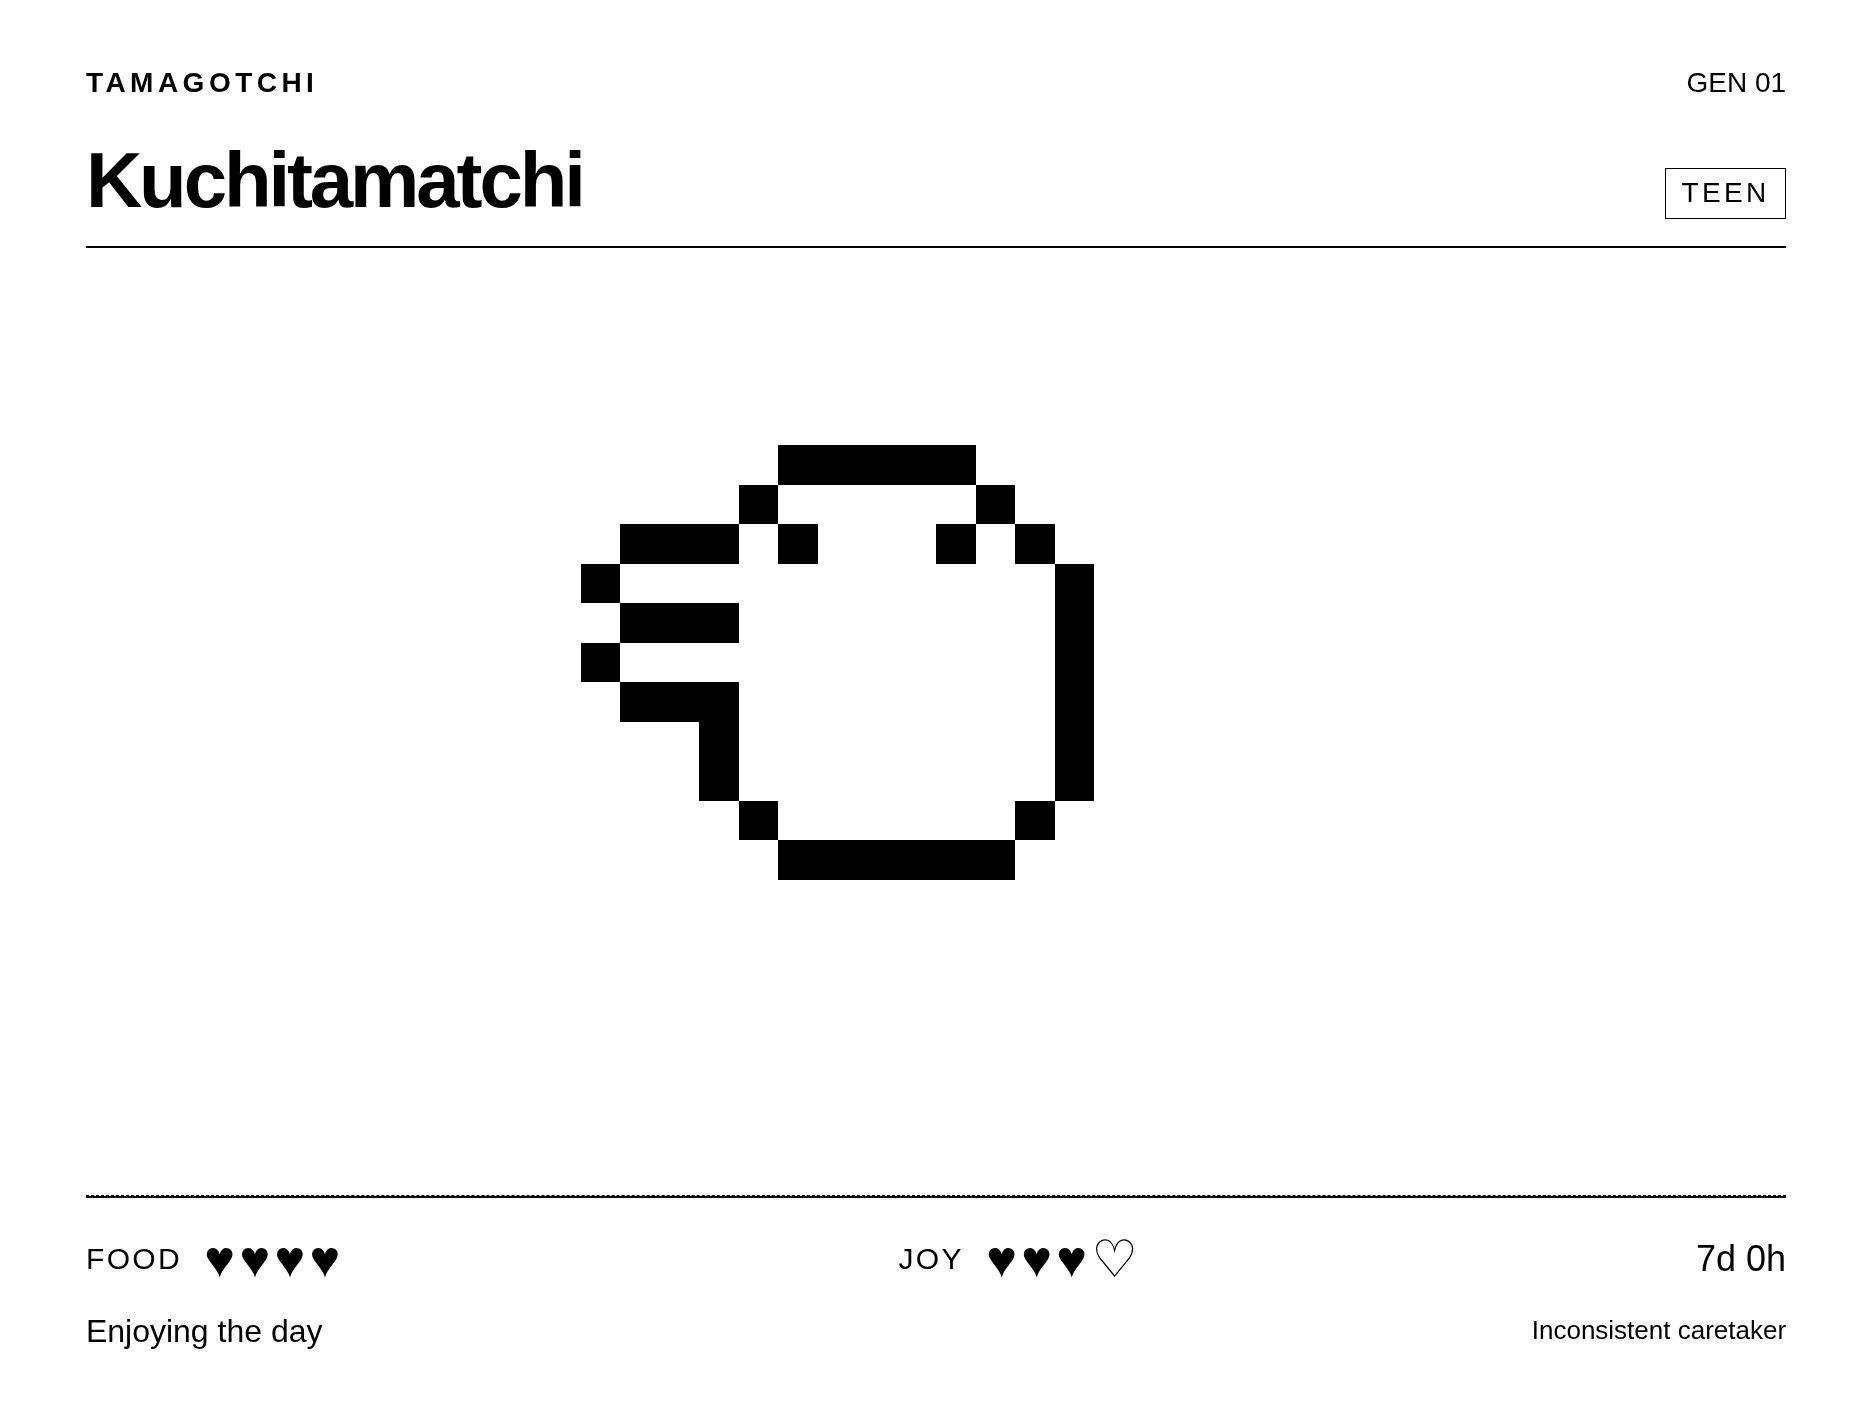
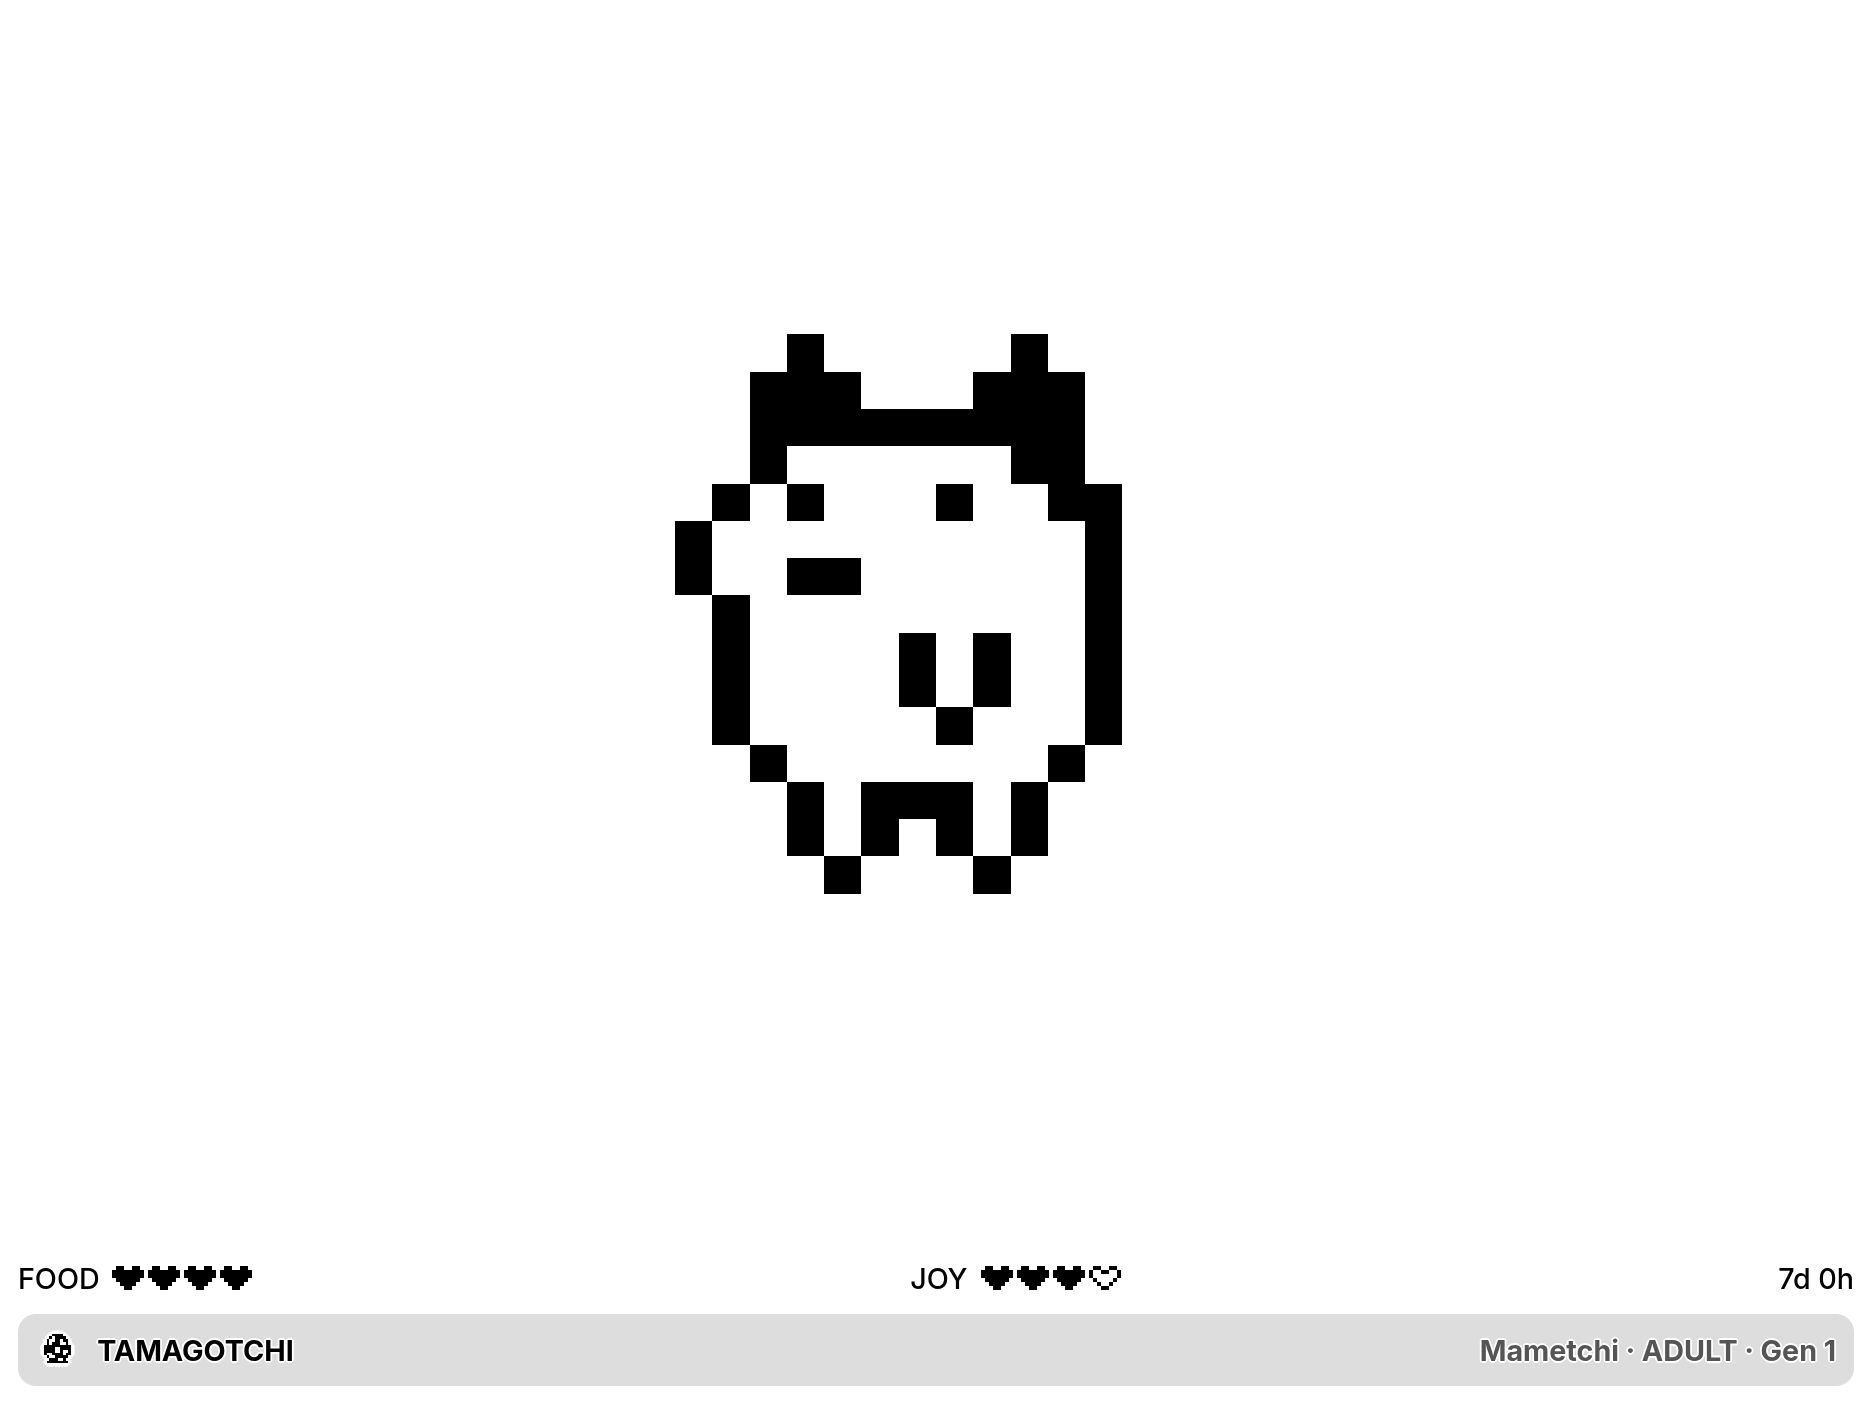
refactor: simplify layouts with native TRMNL components

diff --git a/TRMNL/src/transform.js b/TRMNL/src/transform.js
@@ -300,11 +300,22 @@ function displayPet(s, now, warning = '') {
   const status = dead ? 'Resting among the stars' : !s.character ? 'A little life is on its way' :
     s.sleeping ? 'Sound asleep' : s.sick ? 'Under the weather' :
     s.activity_until >= s.cursor ? s.activity : s.hunger === 0 ? 'Ready for a meal' : s.happiness === 0 ? 'A little bored' : 'Enjoying the day';
+  // Pixel hearts avoid font-dependent Unicode rendering on OG and X.
+  const heartPath = value => Array.from({length: 4}, (_, i) => {
+    const x = i * 9;
+    const outline = `M${x+1} 1h2v1h2V1h2v1h1v2h-1v1h-1v1h-1v1h-2V6h-1V5h-1V4h-1V2h1z`;
+    const hollow = `M${x+1} 2h2v1h2V2h2v2h-1v1h-1v1h-2V5h-1V4h-1z`;
+    return outline + (i < Math.ceil(value / 4) ? '' : hollow);
+  }).join('');
+  const notice = catchup ? `Catching up · ${Math.ceil((now-s.cursor)/1440)} days remaining` : warning ||
+    (dead ? `New egg in ${Math.max(0, 60 - (s.cursor - s.dead_at))}m` : s.sick ? 'Under the weather' : '');
   return { name: dead ? 'Until next time' : names[s.character], character: id,
     stage: dead ? 'REBIRTH' : !s.character ? 'EGG' : s.character === 1 ? 'BABY' : s.character === 2 ? 'CHILD' : s.character < 5 ? 'TEEN' : 'ADULT',
-    generation: String(s.generation).padStart(2, '0'),
+    generation: String(s.generation),
     age: age < 60 ? `${age}m` : age < 1440 ? `${Math.floor(age/60)}h ${age%60}m` : `${Math.floor(age/1440)}d ${Math.floor(age%1440/60)}h`,
     food: hearts(s.hunger), joy: hearts(s.happiness), status,
+    food_path: heartPath(s.hunger), joy_path: heartPath(s.happiness),
+    logo_path: P1_SPRITES.egg[0], notice, notice_visibility: notice ? 'visible' : 'hidden',
     caretaker: P1_PROFILES[s.profile], frame, sprite_path: P1_SPRITES[id][frame],
     sprite_transform: `translate(${8 + offset} 4)`, sleep_path: s.sleeping ? P1_SPRITES.sleep : '',
     state_class: s.sleeping ? 'is-sleeping' : dead ? 'is-dead' : '',

diff --git a/scripts/preview-assets.py b/scripts/preview-assets.py
@@ -1,0 +1,24 @@
+"""Cache the official framework and fonts for the local preview, never the plugin ZIP."""
+import io
+from pathlib import Path
+import re
+import sys
+import urllib.request
+import zipfile
+
+root = Path(sys.argv[1])
+version = sys.argv[2]
+if not (root / "ready").exists():
+    print(f"Caching official TRMNL Framework {version} for local previews...")
+    url = f"https://github.com/usetrmnl/trmnl-framework/releases/download/v{version}/trmnl-framework--{version}.zip"
+    with zipfile.ZipFile(io.BytesIO(urllib.request.urlopen(url, timeout=30).read())) as archive:
+        css = archive.read("css/plugins.css")
+    (root / "css").mkdir(parents=True, exist_ok=True)
+    (root / "fonts").mkdir(exist_ok=True)
+    (root / "css/plugins.css").write_bytes(css)
+    # Fetch only referenced font files from the matching official release tag.
+    for name in sorted(set(re.findall(rb'/fonts/([^"\)]+)', css))):
+        name = name.decode()
+        url = f"https://raw.githubusercontent.com/usetrmnl/trmnl-framework/v{version}/public/fonts/{name}"
+        (root / "fonts" / name).write_bytes(urllib.request.urlopen(url, timeout=30).read())
+    (root / "ready").touch()

diff --git a/TRMNL/README.md b/TRMNL/README.md
@@ -16,7 +16,7 @@ An autonomous P1-style companion for your e-ink screen.
 |---|---|
 | ![TRMNL X](media/preview_trmnl_x.webp) | ![TRMNL X Portrait](media/preview_trmnl_x_portrait.webp) |
 
-These are local-shell previews of the actual templates. They do not prove hosted or physical-device rendering.
+These are local previews of the actual templates using the official TRMNL Framework 3.4.3 stylesheet and fonts. They do not prove hosted or physical-device rendering.
 
 ## Setup
 
@@ -38,9 +38,15 @@ The package layout is checked locally. Actual hosted import and execution remain
 
 1. Create a Private Plugin with **Static** strategy and Static Data `{}`. Set its refresh interval to **15 minutes**.
 2. In **Edit Markup → Serverless**, choose **Node** and paste all of [`src/transform.js`](src/transform.js). It includes the simulation and sprites and defines `run(input)`. No other JavaScript file or build step is needed.
-3. Paste [`shared.liquid`](src/shared.liquid) into **Shared** and the four corresponding templates into their layout tabs.
+3. Select **Framework 3.4.3**. Paste [`shared.liquid`](src/shared.liquid) into **Shared** and the four corresponding templates into their layout tabs.
 4. Sleep uses `trmnl.user.time_zone_iana`. If unavailable, add the optional string custom field `timezone` from [`settings.yml`](src/settings.yml), e.g. `Europe/Madrid`. Missing metadata later preserves the saved timezone; a new pet with none uses UTC with a reminder.
 5. Save, enable debug logs, and add the plugin to your playlist.
+
+## Layout
+
+The pet sits in open space, with food, joy, and age directly above the native title bar. Full and horizontal views include the stage and generation beside the character name. Narrow views keep the name and generation. The counter is written as “Gen 1” and increases after each automatic rebirth. Sleep has a visible Z; illness, rebirth countdowns, and configuration warnings appear only when relevant.
+
+Plugin markup uses native framework layout, flex, spacing, sizing, and typography utilities. The banner uses the unmodified `title_bar`, `image`, `title`, and `instance` classes as a sibling of `layout`; its background, borders, height, and fonts come from the framework. There are no custom stylesheets, inline styles, browser scripts, or external artwork requests. SVG artwork uses `shape-rendering="crispEdges"`; hearts are SVG paths so fonts do not change their appearance. Preview-only CSS positions and crops the device canvas and is never included in the plugin ZIP.
 
 ## Account-side acceptance checks
 
@@ -58,7 +64,7 @@ The repository follows the `TRMNL/src` and `TRMNL/media` conventions of the othe
 
 Run `node TRMNL/check.cjs` from the repository root. Node 20+ runs simulation and template checks; Python 3's standard library is used for the import-archive check. No package installation is required.
 
-`node scripts/preview.cjs` opens a dependency-free preview at **http://127.0.0.1:8766**. The local-only `.cjs` files are development tools; the deployable `src/` contains only `transform.js` as JavaScript.
+`node scripts/preview.cjs` starts a dependency-free preview at **http://127.0.0.1:8766**. Its first launch downloads the official framework release and fonts into the ignored `.cache/` directory; subsequent launches work offline. Python 3 is used for this one-time download. The preview provides the native screen and mashup wrappers, including X’s 1.8 physical-pixel scale. The local-only `.cjs` files are development tools; the deployable `src/` contains only `transform.js` as JavaScript.
 
 For TRMNLP, open this folder and run `trmnlp serve`. `.trmnlp.yml` disables the local transform and provides a fixed Mametchi artwork fixture; use the lifecycle preview or hosted plugin to exercise growth. The setting affects local previews only.
 

diff --git a/docs/VERIFICATION.md b/docs/VERIFICATION.md
@@ -13,9 +13,10 @@ Run `node TRMNL/check.cjs` from the repository root with Node 20+ and Python 3. 
 - `TRMNL/src` contains exactly one JavaScript file, `transform.js`, with embedded sprites and no runtime imports.
 - The actual generated ZIP has exactly seven root-level files. Its own `transform.js` is executed in isolation to initialize an egg and resume the same life as Babytchi.
 - Plugin settings use Static input, Node, a 15-minute interval and a description within the hosted 35-character limit.
+- Plugin templates are checked for native layout/title-bar structure, crisp SVG artwork, and absence of custom CSS, inline styles, or browser scripts.
 - Template checks cover 468 device/layout/character/condition combinations, plus escaping and sleeping/death indications.
 
-The original local browser inspection covered all twelve OG/X landscape/X portrait layout combinations, including the longest character name, with no measured layout overflow. Representative captures are in `TRMNL/media/`. These are local-shell renders, not hosted or physical-device screenshots.
+Local browser inspection uses the official Framework 3.4.3 release and its own fonts, device scale, view, and mashup wrappers. All twelve OG/X landscape/X portrait layout combinations were checked with the longest character name, with no measured content overflow. Sleep, illness, egg, and rebirth also received compact-slot visual checks. Representative captures are in `TRMNL/media/`. These are local framework renders; hosted and physical-device rendering remain unverified.
 
 ## Hosted validation remains pending
 

diff --git a/docs/SOURCES.md b/docs/SOURCES.md
@@ -35,3 +35,10 @@ The implementation follows your `TRMNL/src/` structure, `transform.js` naming an
 - [LaLiga](https://github.com/taichikuji/trmnl-laliga-plugin) and [TMB](https://github.com/taichikuji/trmnl-tmb-plugin): source/layout and preview organization.
 
 No changes were made to those reference repositories. Hosted TRMNL validation and public recipe publication remain pending.
+
+## Display framework
+
+- [TRMNL framework guidance](https://github.com/usetrmnl/trmnl-agent-skills): native components and utilities, platform-owned screen/view wrappers, and size-specific content.
+- [Structure](https://trmnl.com/framework/docs/3.4/structure): one `layout` per view, with the standard `title_bar` as its sibling. Screen, mashup, and view wrappers belong to the platform.
+- [Title bar](https://trmnl.com/framework/docs/3.4/title_bar), [size utilities](https://trmnl.com/framework/docs/3.4/size), and [screen](https://trmnl.com/framework/docs/3.4/screen): layout/title-bar siblings, native device dimensions, and pixel scaling.
+- [Official Framework 3.4.3 release](https://github.com/usetrmnl/trmnl-framework/releases/tag/v3.4.3): pinned for plugin settings and cached locally by the preview. Framework assets and fonts are development cache files, not plugin runtime dependencies.
